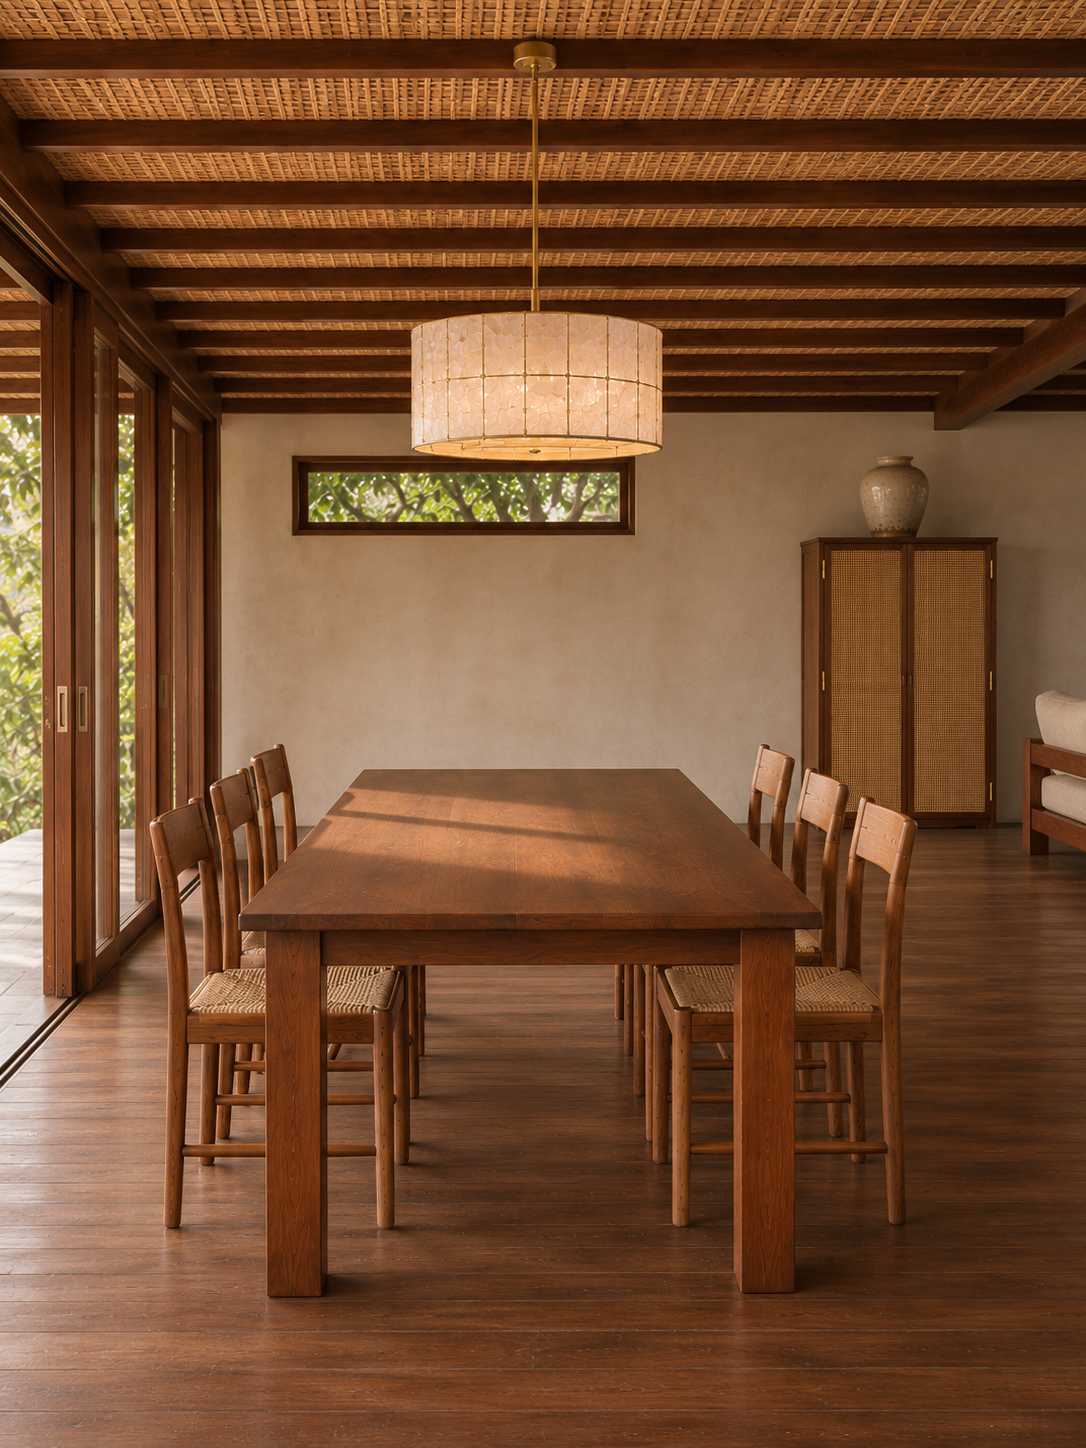
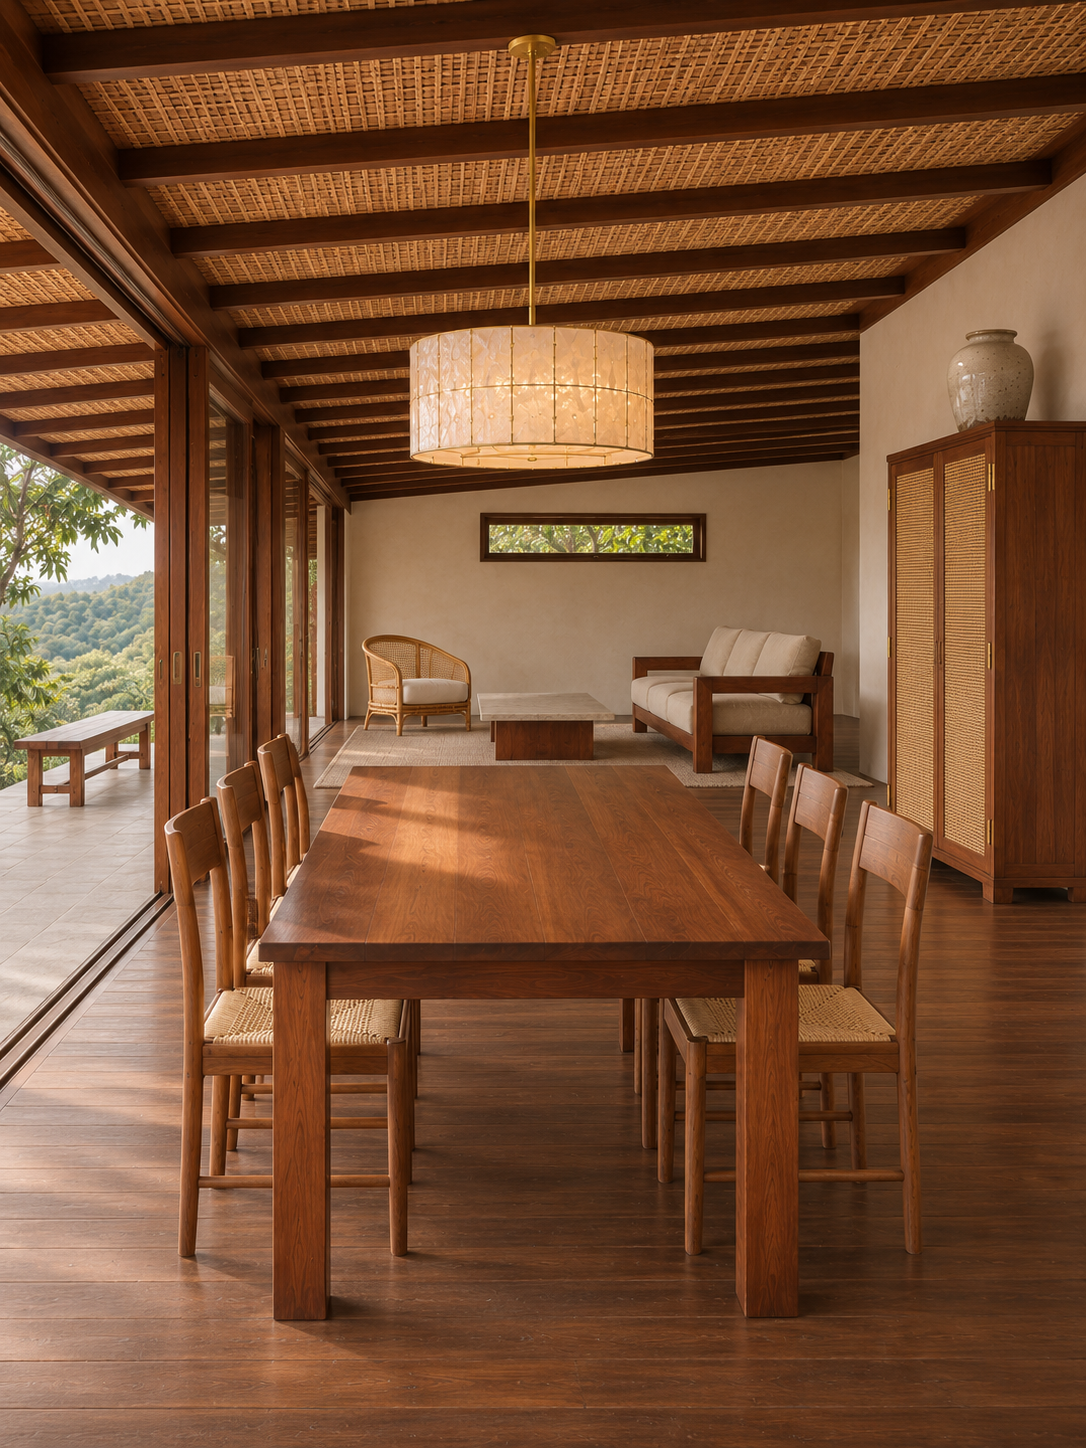
design: accept regenerated Lilim C4, C9, C11

diff --git a/docs/content/scene-bibles/lilim-house.md b/docs/content/scene-bibles/lilim-house.md
@@ -84,3 +84,5 @@ No other pendants, lamps, or seating. In particular: one Kapis Pendant only, ove
 
 
 Camera corrections, 2026-11-15: C4 lens 35mm and heading 15 so the east-wall Aparador is in frame; C9 and C11 moved so the lounge chair is in view (the original positions could not see it).
+
+Accepted with small deviations (Aedwon, 2026-11-15): `lilim-g04-afternoon-table.png` (some sun on the interior floor), `lilim-shop-room.png` (floorboard direction, sofa slightly off its mark). `lilim-g10-exterior.png` accepted as consistent with the plan.
